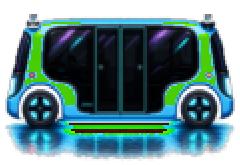
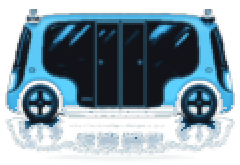
Keep Zoox body matte sky blue and dim underglow
Remove multicolor body glow tints and lower underglow brightness
in both the sprite and the soft runtime shimmer.

diff --git a/src/objects/Zoox.js b/src/objects/Zoox.js
@@ -77,13 +77,11 @@ export class Zoox extends Phaser.Physics.Arcade.Sprite {
     this.shadow.setPosition(this.x + 2, this.baseY + 18);
     this.headlight.setPosition(this.x + 70, this.y - 8);
     this.taillight.setPosition(this.x - 60, this.y - 8);
-    // Visual-only underglow shimmer — does not affect physics/collision.
+    // Visual-only underglow shimmer — kept soft/dim so body stays matte blue.
     this.underglow.clear();
-    const pulse = 0.22 + Math.sin(this.scene.time.now / 180) * 0.08;
-    this.underglow.fillStyle(0x3acbff, pulse * 0.55);
-    this.underglow.fillEllipse(this.x, this.baseY + 18, 118, 20);
+    const pulse = 0.06 + Math.sin(this.scene.time.now / 240) * 0.02;
     this.underglow.fillStyle(0x00e5ff, pulse);
-    this.underglow.fillEllipse(this.x, this.baseY + 16, 96, 13);
+    this.underglow.fillEllipse(this.x, this.baseY + 17, 84, 10);
   }
 
   /**
